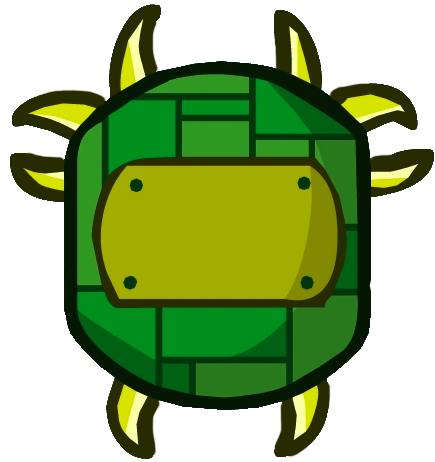
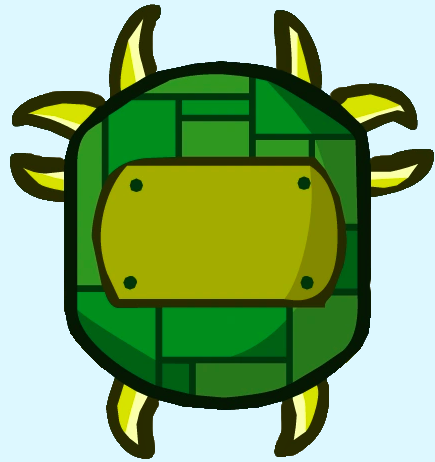
background added

diff --git a/js/ressources.js b/js/ressources.js
@@ -13,6 +13,7 @@ var dinoShield;
 
 function loadImages() {
     preload.loadFile({id:"dino", src:"./images/dino.png", type:createjs.Types.IMAGE});
+    preload.loadFile({id:"background", src:"./images/background.png", type:createjs.Types.IMAGE});
     preload.loadFile({id:"dinoShield", src:"./images/dinoShield.png", type:createjs.Types.IMAGE});
     preload.loadFile({id:"spritesheet", src:"./images/spritesheet.png", type:createjs.Types.IMAGE});
     preload.loadFile({id:"dinoLeft", src:"./images/dinoLeft.png", type:createjs.Types.IMAGE});

diff --git a/js/dino.js b/js/dino.js
@@ -91,7 +91,10 @@ class Dino {
     this.dy += gravity;
     this.y += this.dy;
 
-    
+    if(this.y<0){
+      this.dy=0;
+      this.y=0; 
+    }
     //test if on ground : 
     if (this.y >= this.ground) {
       this.y = this.ground;

diff --git a/js/main.js b/js/main.js
@@ -54,7 +54,7 @@ document.onkeyup = function (e) {
 }
 
 function draw() {
-  renderTrees();
+  ctx.drawImage(preload.getResult("background"),0,0,700,550)
   renderGround();
   platforms.forEach(el=>el.draw()); 
   dino.draw();
